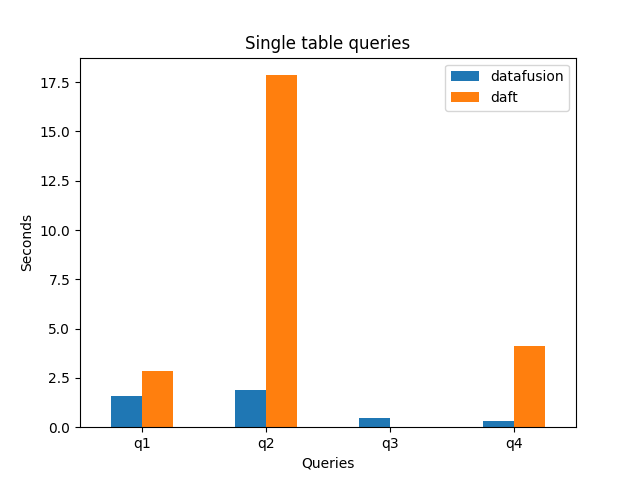
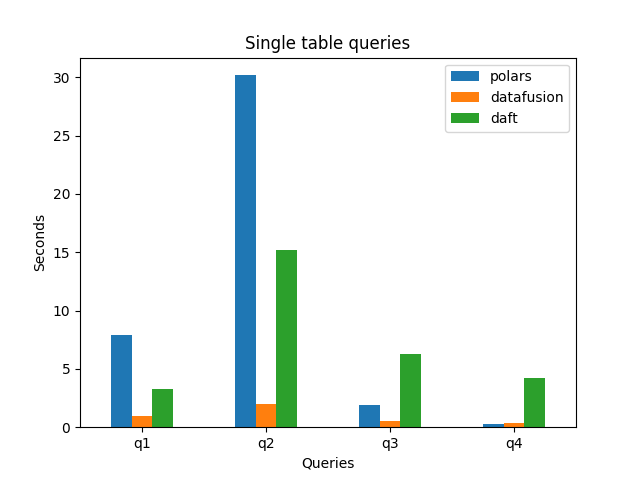
add polars single table results

diff --git a/benchmarks/polars_single_table_queries.py b/benchmarks/polars_single_table_queries.py
@@ -1,0 +1,84 @@
+import polars as pl
+from polars import col
+from helpers import benchmark, get_results
+
+
+def q1(df):
+    x = df
+    query = "select id1, id2, max(v3) as max_v3 from x group by id1, id2 order by max_v3 desc limit 5"
+    return pl.sql(query).collect()
+
+
+def q2(df):
+    x = df
+    query = "select * from x order by v3 desc limit 5"
+    return pl.sql(query).collect()
+
+
+
+def q3(df):
+    x = df
+    query = "select id1, id2, min(v3) from x where id4 > 50 and v1 = 1 group by id1, id2"
+    return pl.sql(query).collect()
+
+
+def q4(df):
+    x = df
+    query = "select id4, avg(v1) as v1, avg(v2) as v2, avg(v3) as v3 from x where id6 < 100 and v2 > 5 group by id4 order by id4 desc"
+    return pl.sql(query).collect()
+
+
+# def q5(df):
+#     return df.group_by("id6").agg([pl.sum("v1"), pl.sum("v2"), pl.sum("v3")]).collect()
+
+
+# def q6(df):
+#     return (
+#         df.group_by(["id4", "id5"])
+#         .agg([pl.median("v3").alias("v3_median"), pl.std("v3").alias("v3_std")])
+#         .collect()
+#     )
+
+
+# def q7(df):
+#     return (
+#         df.group_by("id3")
+#         .agg([(pl.max("v1") - pl.min("v2")).alias("range_v1_v2")])
+#         .collect()
+#     )
+
+
+# def q8(df):
+#     return df.drop_nulls("v3").group_by("id6").agg(col("v3").top_k(2).alias("largest2_v3")).explode("largest2_v3").collect()
+
+
+# def q9(df):
+#     return df.group_by(["id2","id4"]).agg((pl.corr("v1","v2", method="pearson")**2).alias("r2")).collect()
+
+
+# def q10(df):
+#     return (
+#         df.group_by(["id1", "id2", "id3", "id4", "id5", "id6"])
+#         .agg([pl.sum("v3").alias("v3"), pl.count("v1").alias("count")])
+#         .collect()
+#     )
+
+def run_benchmarks(dfs):
+    df = dfs[0]
+    polars_benchmarks = {
+        "duration": [],  # in seconds
+        "task": [],
+    }
+
+    benchmark(q1, df, benchmarks=polars_benchmarks, name="q1")
+    benchmark(q2, df, benchmarks=polars_benchmarks, name="q2")
+    benchmark(q3, df, benchmarks=polars_benchmarks, name="q3")
+    benchmark(q4, df, benchmarks=polars_benchmarks, name="q4")
+    # benchmark(q5, df, benchmarks=polars_benchmarks, name="q5")
+    # benchmark(q6, df, benchmarks=polars_benchmarks, name="q6")
+    # benchmark(q7, df, benchmarks=polars_benchmarks, name="q7")
+    # benchmark(q8, df, benchmarks=polars_benchmarks, name="q8")
+    # benchmark(q9, df, benchmarks=polars_benchmarks, name="q9")
+
+    polars_res_temp = get_results(polars_benchmarks).set_index("task")
+    return polars_res_temp

diff --git a/benchmarks/run_all_single_table.py b/benchmarks/run_all_single_table.py
@@ -3,7 +3,7 @@ import daft
 
 import sys
 import pandas as pd
-# import polars_single_table_queries
+import polars_single_table_queries
 import datafusion_single_table_queries
 import daft_single_table_queries
 from datafusion import SessionContext
@@ -11,10 +11,10 @@ from datafusion import SessionContext
 path = sys.argv[1]
 
 # polars
-# print("*** Polars ***")
-# df = pl.scan_parquet(path, low_memory=True)
-# polars_res = polars_groupby_queries.run_benchmarks([df]).rename(columns={"duration": "polars"})
-# print(polars_res)
+print("*** Polars ***")
+df = pl.scan_parquet(path, low_memory=True)
+polars_res = polars_single_table_queries.run_benchmarks([df]).rename(columns={"duration": "polars"})
+print(polars_res)
 
 # datafusion
 print("*** DataFusion ***")
@@ -29,8 +29,7 @@ df = daft.read_parquet(path)
 daft_res = daft_single_table_queries.run_benchmarks([df]).rename(columns={"duration": "daft"})
 
 # all results
-# res = polars_res.join(datafusion_res, on="task").join(daft_res, on="task")
-res = datafusion_res.join(daft_res, on="task")
+res = polars_res.join(datafusion_res, on="task").join(daft_res, on="task")
 print(res)
 
 ax = res.plot.bar(rot=0)

diff --git a/benchmarks/daft_single_table_queries.py b/benchmarks/daft_single_table_queries.py
@@ -21,7 +21,7 @@ def q2(df):
 
 def q3(df):
     return daft.sql(
-        "select id1, id2, min(v3) from (select * from x where id4 > 50 and v1 = 1) group by id1, id2",
+        "select id1, id2, min(v3) from x where id4 > 50 and v1 = 1 group by id1, id2",
         catalog=SQLCatalog({"x": df})
     ).collect()
 
@@ -66,7 +66,7 @@ def run_benchmarks(dfs):
 
     benchmark(q1, df, benchmarks=benchmarks, name="q1")
     benchmark(q2, df, benchmarks=benchmarks, name="q2")
-    # benchmark(q3, df, benchmarks=benchmarks, name="q3")
+    benchmark(q3, df, benchmarks=benchmarks, name="q3")
     benchmark(q4, df, benchmarks=benchmarks, name="q4")
     # benchmark(q5, df, benchmarks=benchmarks, name="q5")
     # benchmark(q6, df, benchmarks=benchmarks, name="q6")

diff --git a/benchmarks/datafusion_single_table_queries.py b/benchmarks/datafusion_single_table_queries.py
@@ -11,7 +11,7 @@ def q2(ctx):
 
 
 def q3(ctx):
-    query = "select id1, id2, min(v3) from (select * from x where id4 > 50 and v1 = 1) group by id1, id2"
+    query = "select id1, id2, min(v3) from x where id4 > 50 and v1 = 1 group by id1, id2"
     return ctx.sql(query).collect()
 
 
